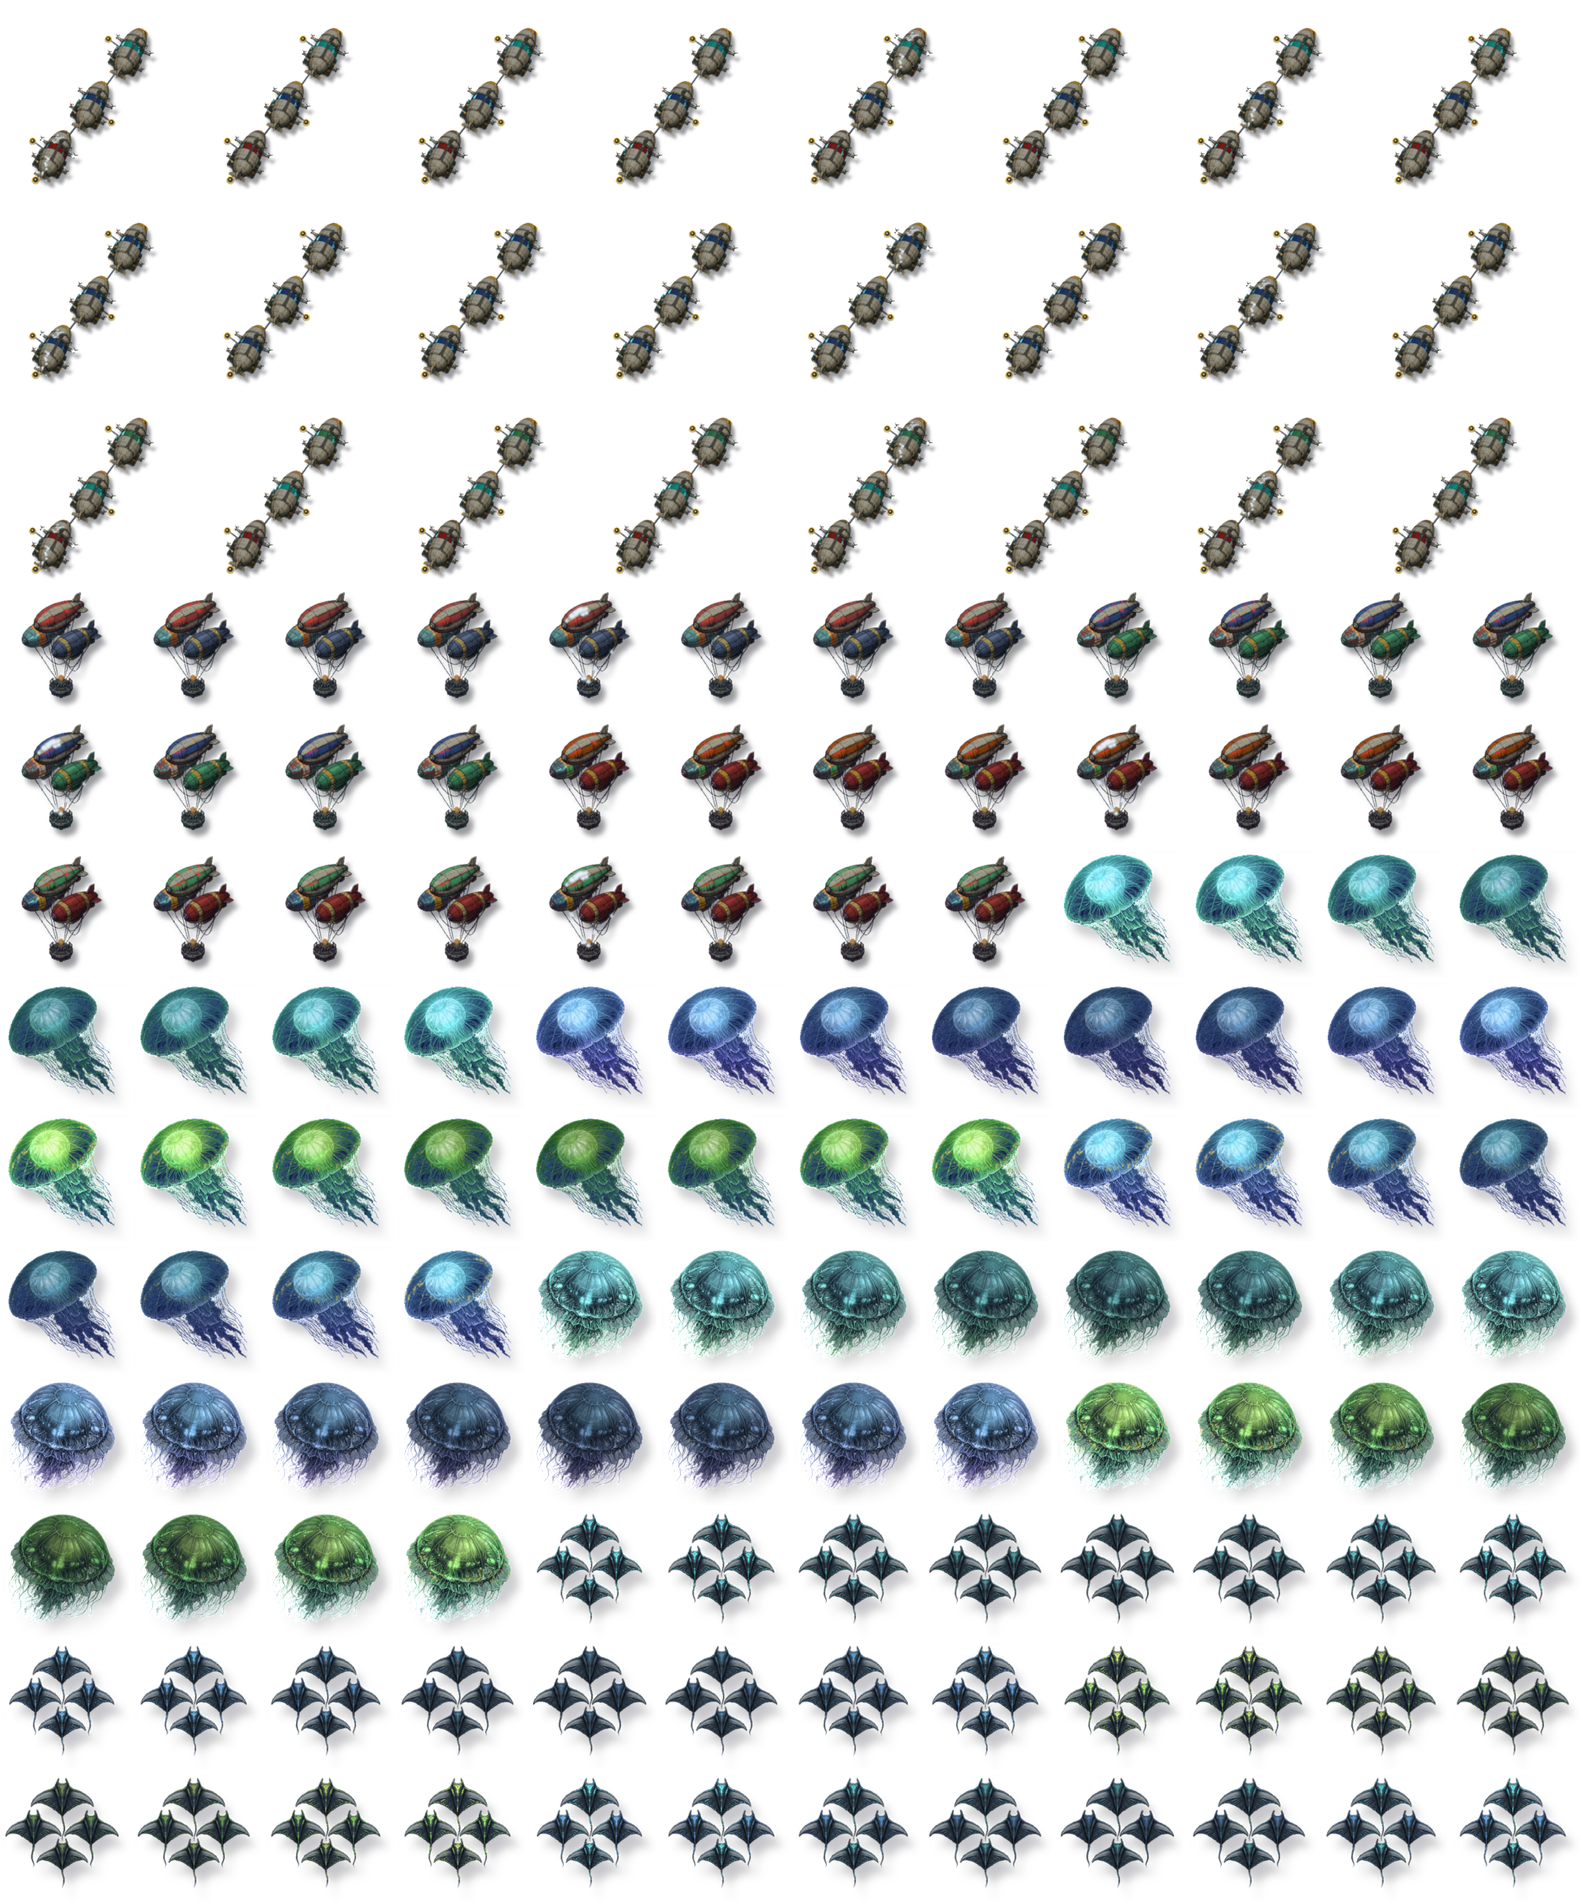
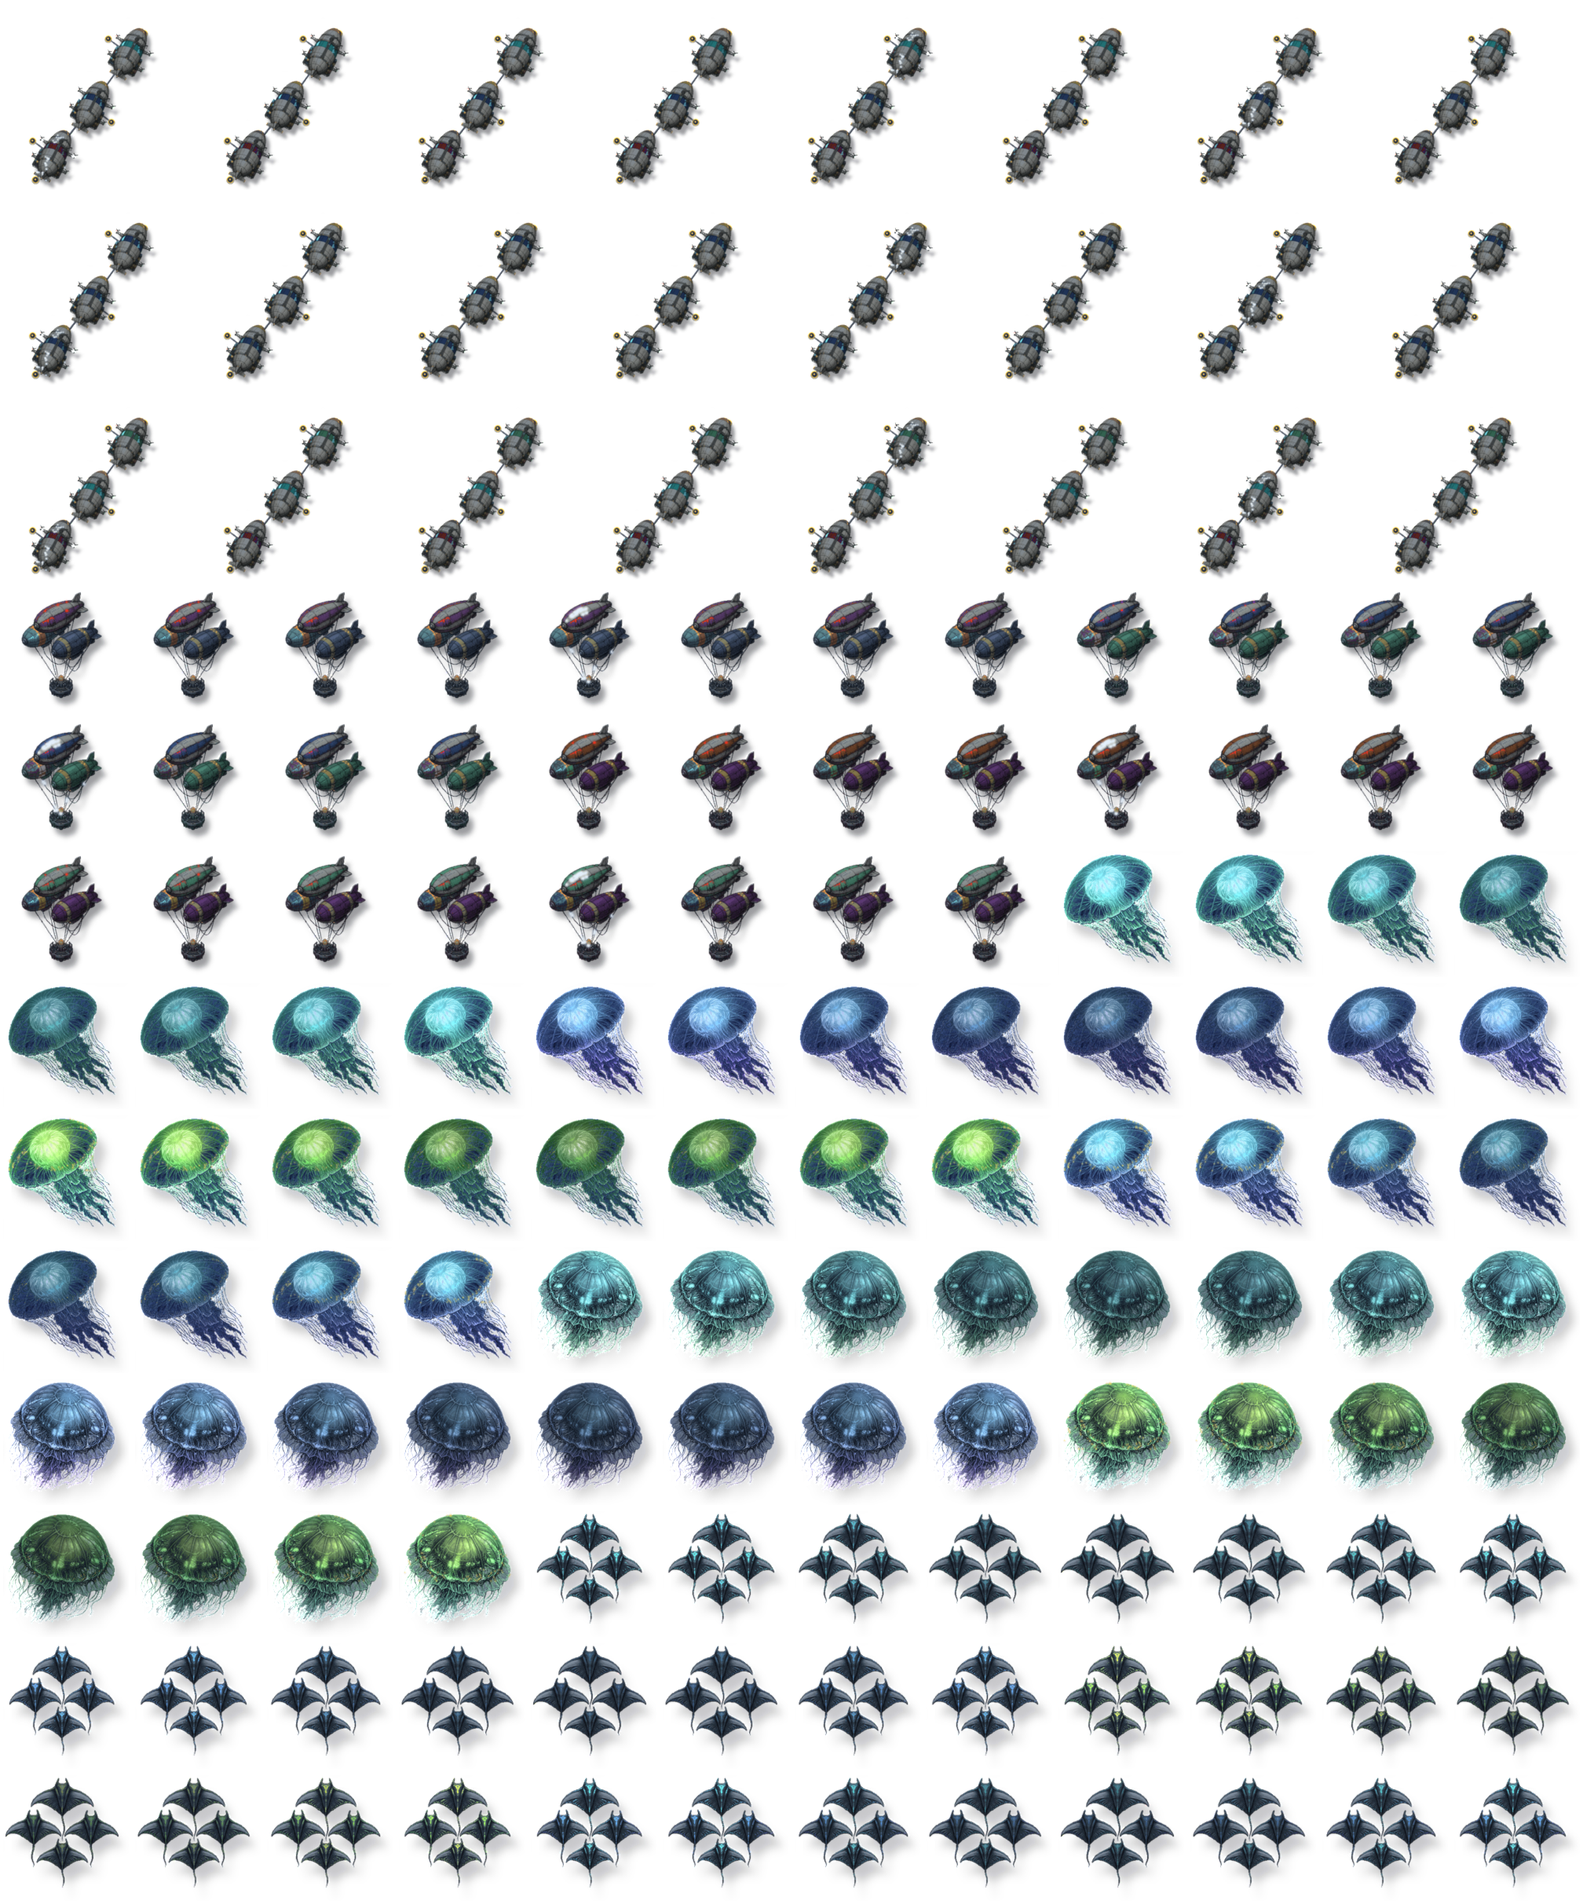
Blend the Storm and Frost props into their worlds (user: all props should be blended in into the world correctly such that it makes sense and doesnt look out of place): build-time pass in both atlas builders -- graded toward the deck / ice palette with lamps kept, feathered silhouettes, soft contact

diff --git a/Pause/Assets/Art/Worlds/Frost/backdrop_v3/src~/frost_redraw/props/build_props_atlas.py b/Pause/Assets/Art/Worlds/Frost/backdrop_v3/src~/frost_redraw/props/build_props_atlas.py
@@ -65,6 +65,84 @@ def depink(img):
     return n
 
 
+# ---- BLEND (user 2026-11-28: "all props should be blended in into the world correctly such that it makes sense and doesnt look
+# out of place"). Before the pink guard, every cell is: graded toward the ice palette (luminance carried on the ice's hue -- the
+# v1-v4 mid tiles' ice measures rgb .16 .22 .25 as painted -- plus a little atmospheric pull to it; the drawing's lamps and lit
+# windows, max channel >= LAMP_HI, keep their colour unscaled), its cut-out silhouette feathered by a hair, and -- for the props
+# that stand on the ice -- a soft contact shadow cast down-right (the ground is lit from the top-left) and a snow drift banked
+# round the lowest part of the piece. The props in open water (whale, orca, narwhal, icebreaker) already carry their wake / ripple
+# rings: grade and feather only. The crashed starship has its own ground-level crash scar: grade, feather and a light shadow.
+import numpy as np
+
+ICE = np.array([.16, .22, .25])
+ICE_NORM = ICE / (ICE @ [.2126, .7152, .0722])
+SNOW = np.array([.25, .31, .34])
+SHADOW = np.array([.01, .03, .06])
+BLEND = {   # kind: (grade, shadow alpha, drift alpha)
+    "station": (1, .5, .55), "lab": (1, .5, .55), "plane": (1, .5, .55), "snowcat": (1, .45, .5), "radar": (1, .5, .55),
+    "fishcamp": (1, .4, .45), "flares": (1, .4, .45), "tanker": (1, .45, .6), "bears": (.8, .35, .4), "seals": (.8, .35, .4),
+    "sonde": (1, .45, .5), "heli": (1, .5, .6), "starship": (1, .3, 0),
+    "whale": (.6, 0, 0), "orca": (.6, 0, 0), "narwhal": (.6, 0, 0), "icebreaker": (.8, 0, 0),
+}
+LAMP_LO, LAMP_HI = .56, .72
+
+
+def blur(x, r):
+    k = int(np.ceil(3 * r))
+    t = np.arange(-k, k + 1, dtype=np.float32)
+    w = np.exp(-.5 * (t / max(r, 1e-3)) ** 2)
+    w /= w.sum()
+    y = np.apply_along_axis(lambda v: np.convolve(v, w, "same"), 0, x.astype(np.float32))
+    return np.apply_along_axis(lambda v: np.convolve(v, w, "same"), 1, y)
+
+
+def blend_cell(px, kind):
+    g, sh, dr = BLEND[kind]
+    a = px.astype(np.float32) / 255
+    rgb, al = a[..., :3], a[..., 3]
+    n = px.shape[0] / 128.0
+    lum = rgb @ np.array([.2126, .7152, .0722], np.float32)
+    graded = rgb * (1 - .32 * g) + lum[..., None] * ICE_NORM * (.32 * g)
+    graded = graded * (1 - .10 * g) + ICE * (.10 * g)
+    keep = np.clip((rgb.max(-1) - LAMP_LO) / (LAMP_HI - LAMP_LO), 0, 1)[..., None]
+    rgb = np.clip(graded * (1 - keep) + rgb * keep, 0, 1)
+    # feather: no hard cut-out edge
+    al = .45 * al + .55 * np.minimum(al, blur(al, .8 * n))
+    H, W = al.shape
+    pr = rgb * al[..., None]
+    pa = al.copy()
+    if sh > 0:
+        dx, dy = int(round(3 * n)), int(round(3 * n))
+        sil = np.zeros_like(al)
+        sil[dy:, dx:] = al[:H - dy, :W - dx]
+        shadow = blur(sil, 2.2 * n) * sh
+        pr = pr + SHADOW * shadow[..., None] * (1 - pa[..., None])
+        pa = pa + shadow * (1 - pa)
+    if dr > 0:
+        ys = np.nonzero(al.max(1) > .1)[0]
+        top, bot = (ys[0], ys[-1]) if len(ys) else (0, H - 1)
+        yy = np.arange(H, dtype=np.float32)[:, None]
+        band = np.clip((yy - (bot - .2 * (bot - top))) / max(1., .2 * (bot - top)), 0, 1) ** .8
+        # the drift: snow piled against the base and spilling a little past it
+        drift = np.clip(blur(al, 2.4 * n) * 1.6, 0, 1) * band * dr
+        da = np.clip(drift * (.5 + .5 * al), 0, 1)
+        pr = SNOW * da[..., None] + pr * (1 - da[..., None])
+        pa = da + pa * (1 - da)
+    rgb = np.where(pa[..., None] > 1e-4, pr / np.maximum(pa[..., None], 1e-4), 0)
+    out = np.dstack([np.clip(rgb, 0, 1), np.clip(pa, 0, 1)])
+    return (out * 255 + .5).astype(np.uint8)
+
+
+def blend_strip(img, name):
+    if "--raw" in sys.argv:
+        return img
+    a = np.array(img)
+    c = a.shape[0]
+    for f in range(a.shape[1] // c):
+        a[:, f * c:(f + 1) * c] = blend_cell(a[:, f * c:(f + 1) * c], name)
+    return Image.fromarray(a, "RGBA").copy()
+
+
 def build():
     sheet = Image.new("RGBA", (W, H), (0, 0, 0, 0))
     sprites = []
@@ -72,6 +150,7 @@ def build():
         b = base(name, v)
         strip = Image.open(HERE / "strips" / f"{b}.png").convert("RGBA")
         assert strip.size == (CELL * FRAMES, CELL), (b, strip.size)
+        strip = blend_strip(strip, name)
         depink(strip)
         r, x0 = i // PER_ROW, (i % PER_ROW) * CELL * FRAMES
         sheet.paste(strip, (x0, r * CELL))
@@ -82,6 +161,7 @@ def build():
         b, c = base(name, v), CELLS[name]
         strip = Image.open(HERE / "strips" / f"{b}.png").convert("RGBA")
         assert strip.size == (c * FRAMES, c), (b, strip.size)
+        strip = blend_strip(strip, name)
         depink(strip)
         sheet.paste(strip, (0, top))
         for f in range(FRAMES):

diff --git a/Pause/Assets/Art/Worlds/Storm/backdrop_r3~/props/build_props_atlas.py b/Pause/Assets/Art/Worlds/Storm/backdrop_r3~/props/build_props_atlas.py
@@ -95,12 +95,90 @@ def tint_safe(a):
     return int(bad.sum())
 
 
+# ---- BLEND (user 2026-11-28: "all props should be blended in into the world correctly such that it makes sense and doesnt look
+# out of place"): every ground prop is graded toward the cool cloud deck (v1-v4 mid tiles average rgb .14 .18 .24), keeps its lamps
+# unscaled, gets a soft contact shadow cast down-right (the deck and the props are lit from the top-left), a feathered silhouette and a
+# cloud-vapour skirt round its base where it meets the deck. The cell (a lit cloud tower) and the vortex (a cloud whirl) are the deck
+# already; the crashed gunship has its own painted cloud skirt (graded and shadowed, no extra skirt). Aloft pieces get the grade only,
+# lighter (they hang nearer the camera, above the deck's haze).
+DECK = np.array([.14, .18, .24])
+DECK_NORM = DECK / (DECK @ [.2126, .7152, .0722])
+MIST = np.array([.40, .46, .56])
+SHADOW = np.array([.03, .045, .07])
+BLEND = {   # kind: (grade, shadow alpha, skirt alpha)
+    "refinery": (1, .6, .6), "mast": (1, .55, .5), "wreck": (1, .6, .75), "gunship": (1, .5, 0), "tug": (1, .6, .6),
+    "rods": (1, .6, .6), "buoys": (1, .55, .6), "skimmer": (1, .6, .6),
+    "aerostat": (.6, 0, 0), "convoy": (.6, 0, 0), "rays": (.6, 0, 0), "jelly": (.3, 0, 0),
+}
+LAMP_LO, LAMP_HI = .62, .78   # texels this bright (max channel) keep their colour: lamps and blinking lights stay unscaled
+
+
+def blur(x, r):
+    # separable gaussian, zero outside the cell
+    k = int(np.ceil(3 * r))
+    t = np.arange(-k, k + 1, dtype=np.float32)
+    w = np.exp(-.5 * (t / max(r, 1e-3)) ** 2)
+    w /= w.sum()
+    y = np.apply_along_axis(lambda v: np.convolve(v, w, "same"), 0, x.astype(np.float32))
+    return np.apply_along_axis(lambda v: np.convolve(v, w, "same"), 1, y)
+
+
+def blend_cell(px, kind):
+    if kind not in BLEND:
+        return px
+    g, sh, sk = BLEND[kind]
+    a = px.astype(np.float32) / 255
+    rgb, al = a[..., :3], a[..., 3]
+    n = px.shape[0] / 128.0
+    # grade: luminance carried on the deck's hue, then a little atmospheric pull to the deck; lamps kept
+    lum = rgb @ np.array([.2126, .7152, .0722], np.float32)
+    cool = lum[..., None] * DECK_NORM
+    graded = rgb * (1 - .42 * g) + cool * (.42 * g)
+    graded = graded * (1 - .14 * g) + DECK * 1.3 * (.14 * g)
+    graded *= 1 - .08 * g
+    keep = np.clip((rgb.max(-1) - LAMP_LO) / (LAMP_HI - LAMP_LO), 0, 1)[..., None]
+    rgb = np.clip(graded * (1 - keep) + rgb * keep, 0, 1)
+    if sh <= 0 and sk <= 0:
+        out = np.dstack([rgb, al])
+        return (out * 255 + .5).astype(np.uint8)
+    # feather: a hair of softness on the cut-out silhouette
+    al = .6 * al + .4 * np.minimum(al, blur(al, .6 * n))
+    H, W = al.shape
+    ys = np.nonzero(al.max(1) > .1)[0]
+    top, bot = (ys[0], ys[-1]) if len(ys) else (0, H - 1)
+    # the base: the lowest 18 % of the piece fades into a cloud-vapour skirt
+    yy = np.arange(H, dtype=np.float32)[:, None]
+    band = np.clip((yy - (bot - .22 * (bot - top))) / max(1., .22 * (bot - top)), 0, 1) ** .8
+    skirt = np.clip(blur(al, 2.8 * n) * 1.5, 0, 1) * band * sk
+    # contact shadow: the silhouette, softened, cast down-right onto the deck
+    dx, dy = int(round(3 * n)), int(round(4 * n))
+    sil = np.zeros_like(al)
+    sil[dy:, dx:] = al[:H - dy, :W - dx]
+    shadow = blur(sil, 2.5 * n) * sh
+    # composite (premultiplied): shadow under the prop, the skirt over its base
+    pr = SHADOW * shadow[..., None]
+    pa = shadow
+    pr = rgb * al[..., None] + pr * (1 - al[..., None])
+    pa = al + pa * (1 - al)
+    mist_a = np.clip(skirt * (.55 + .45 * al), 0, 1)
+    pr = MIST * mist_a[..., None] + pr * (1 - mist_a[..., None])
+    pa = mist_a + pa * (1 - mist_a)
+    pa = pa * (1 - .35 * band * sk)          # the very base thins into the deck (feathered mount)
+    pr = pr * (1 - .35 * band * sk)[..., None]
+    rgb = np.where(pa[..., None] > 1e-4, pr / np.maximum(pa[..., None], 1e-4), 0)
+    out = np.dstack([np.clip(rgb, 0, 1), np.clip(pa, 0, 1)])
+    return (out * 255 + .5).astype(np.uint8)
+
+
 def pack(group):
     cells = []
     for kind, n, cell in group:
         for k in range(n):
             strip = np.array(Image.open(HERE / "strips" / f"{kind}_{k}.png").convert("RGBA"))
             assert strip.shape[:2] == (cell, cell * FRAMES), (kind, k, strip.shape)
+            if "--raw" not in sys.argv:
+                for f in range(FRAMES):
+                    strip[:, f * cell:(f + 1) * cell] = blend_cell(strip[:, f * cell:(f + 1) * cell], kind)
             depink(strip)
             for f in range(FRAMES):
                 cells.append((f"{kind}_{k}_{f:02d}", strip[:, f * cell:(f + 1) * cell]))

diff --git a/Pause/Assets/Editor/Tests/StormPropsTest.cs b/Pause/Assets/Editor/Tests/StormPropsTest.cs
@@ -229,6 +229,38 @@ public static class StormPropsTest
         return new Stat { mean = sw > 0 ? (float)(sl / sw) : 0f, p90 = vals.Count > 0 ? vals[(int)(vals.Count * .9f)] : 0f, peak = peak };
     }
 
+    // Blend (user 2026-11-28: every prop blends into the world): over the first cell of every livery, the opaque texels' warmth
+    // (mean r - b; the cool deck measures about -.10) and the share of the base band (the lowest 8 % of the piece) that is fully opaque
+    // (a hard cut-out mount reads pasted on; a feathered, vapour-wrapped base reads sat in the deck).
+    static Vector2 Blend(Color[] px, int w, BackdropAtlas atlas, string kind, int variants)
+    {
+        double warm = 0; int n = 0, hard = 0, band = 0;
+        for (int v = 0; v < variants; v++)
+        {
+            var cells = atlas.Frames(StormPropsTuning.Strip(kind, v));
+            if (cells.Length == 0) continue;
+            var r = cells[0].rect;
+            int x0 = (int)r.x, y0 = (int)r.y, cw = (int)r.width, ch = (int)r.height, lo = -1, hi = -1;
+            for (int y = 0; y < ch; y++)
+                for (int x = 0; x < cw; x++)
+                {
+                    var c = px[(y0 + y) * w + x0 + x];
+                    if (c.a > .1f) { if (lo < 0) lo = y; hi = y; }
+                    if (c.a > .5f) { warm += c.r - c.b; n++; }
+                }
+            if (lo < 0) continue;
+            int top = lo + Mathf.Max(1, Mathf.RoundToInt(.08f * (hi - lo)));   // texture rows count up: lo is the piece's base
+            for (int y = lo; y <= top; y++)
+                for (int x = 0; x < cw; x++)
+                {
+                    float a = px[(y0 + y) * w + x0 + x].a;
+                    if (a > .05f) band++;
+                    if (a > .9f) hard++;
+                }
+        }
+        return new Vector2(n > 0 ? (float)(warm / n) : 0f, band > 0 ? (float)hard / band : 0f);
+    }
+
     const float ApprovedDeckLum = .29f, ApprovedDeckP90 = .66f;
 
     static void Art()
@@ -297,6 +329,18 @@ public static class StormPropsTest
                 else ok &= s.mean <= land.mean * 1.3f && s.p90 <= .75f && s.mean <= .5f;   // aloft: hazed, dimmer than every shot
             }
             Check(sheet + " as drawn within the landmark rules (landmarks lum " + land.mean.ToString("F2") + " p90 " + land.p90.ToString("F2") + "): " + rows, ok);
+            if (ground)
+            {
+                string brows = ""; bool bok = true;
+                for (int k = 0; k < kinds.Length; k++)
+                {
+                    if (k == StormPropsTuning.Cell || k == StormPropsTuning.Vortex) continue;   // (cloud phenomena: they are the deck)
+                    var bl = Blend(px, w, atlas, kinds[k], counts[k]);
+                    brows += kinds[k] + " warm " + bl.x.ToString("F3") + " hard base " + bl.y.ToString("F2") + "; ";
+                    bok &= bl.x <= .01f && bl.y <= .12f;
+                }
+                Check("every ground prop is blended into the cool deck: graded toward it (warmth r-b <= .01) and its base feathered into the clouds (<= 12% of the base band hard): " + brows, bok);
+            }
             atlas.Destroy();
         }
     }

diff --git a/Pause/Assets/Editor/Tests/FrostPropsTest.cs b/Pause/Assets/Editor/Tests/FrostPropsTest.cs
@@ -331,6 +331,44 @@ public static class FrostPropsTest
             rowsOk &= p90 <= lp90 + .15f && ml <= .66f;
         }
         Check("every prop's forms within the landmark rules as drawn (value p90 <= landmarks' " + lp90.ToString("F2") + " + .15, luminance <= .66): " + rows, rowsOk);
+
+        // BLEND (user 2026-11-28: every prop blends into the world): no cut-out silhouette (the share of a strip's first cell's opaque
+        // texels that touch a transparent one), and on the ice a feathered base banked with snow (the share of the lowest 8 % of
+        // the piece that is fully opaque); the props in open water keep their wake / ripple rings instead.
+        string brows = ""; bool bok = true;
+        for (int k = 0; k < stripRects.Count; k++)
+        {
+            int y0 = (int)stripRects[k].y, x0 = (int)stripRects[k].x, cp = stripCells[k];
+            int opaque = 0, cut = 0, lo = -1, hi = -1;
+            for (int y = 0; y < cp; y++)
+                for (int x = 0; x < cp; x++)
+                {
+                    float al = px[(y0 + y) * w + x0 + x].a;
+                    if (al > .1f) { if (lo < 0) lo = y; hi = y; }
+                    if (al <= .9f) continue;
+                    opaque++;
+                    bool edge = false;
+                    if (x > 0 && px[(y0 + y) * w + x0 + x - 1].a < .05f) edge = true;
+                    if (x < cp - 1 && px[(y0 + y) * w + x0 + x + 1].a < .05f) edge = true;
+                    if (y > 0 && px[(y0 + y - 1) * w + x0 + x].a < .05f) edge = true;
+                    if (y < cp - 1 && px[(y0 + y + 1) * w + x0 + x].a < .05f) edge = true;
+                    if (edge) cut++;
+                }
+            float cutShare = opaque > 0 ? (float)cut / opaque : 0f;
+            bool water = stripNames[k].StartsWith("whale") || stripNames[k].StartsWith("orca") || stripNames[k].StartsWith("narwhal") || stripNames[k].StartsWith("icebreaker");
+            int band = 0, hard = 0;
+            if (lo >= 0)
+                for (int y = lo; y <= lo + Mathf.Max(1, Mathf.RoundToInt(.08f * (hi - lo))); y++)   // texture rows count up: lo is the base
+                    for (int x = 0; x < cp; x++)
+                    {
+                        float al = px[(y0 + y) * w + x0 + x].a;
+                        if (al > .05f) band++;
+                        if (al > .9f) hard++;
+                    }
+            float hardBase = band > 0 ? (float)hard / band : 0f;
+            if (cutShare > .02f || (!water && hardBase > .45f)) { bok = false; brows += stripNames[k] + " cut " + cutShare.ToString("F3") + " base " + hardBase.ToString("F2") + "; "; }
+        }
+        Check("every prop is blended into the ice: no cut-out edge (<= 2% of its opaque texels touch a clear one) and, on the ice, a feathered snow-banked base (<= 45% of the base band hard)" + (bok ? "" : ": " + brows), bok);
     }
 
     // ---- live: placement, rarity, animation, lights --------------------------------------------
